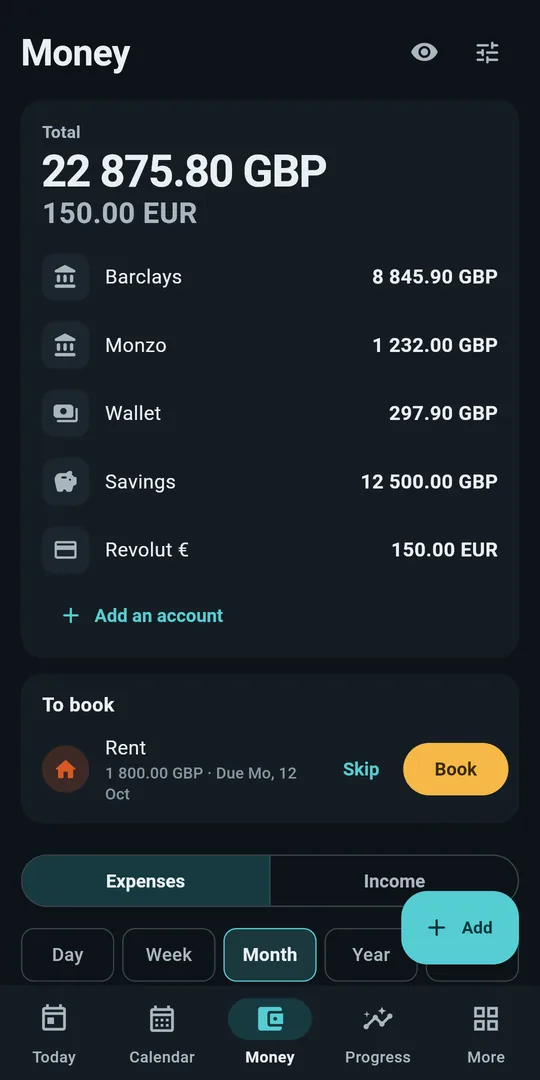
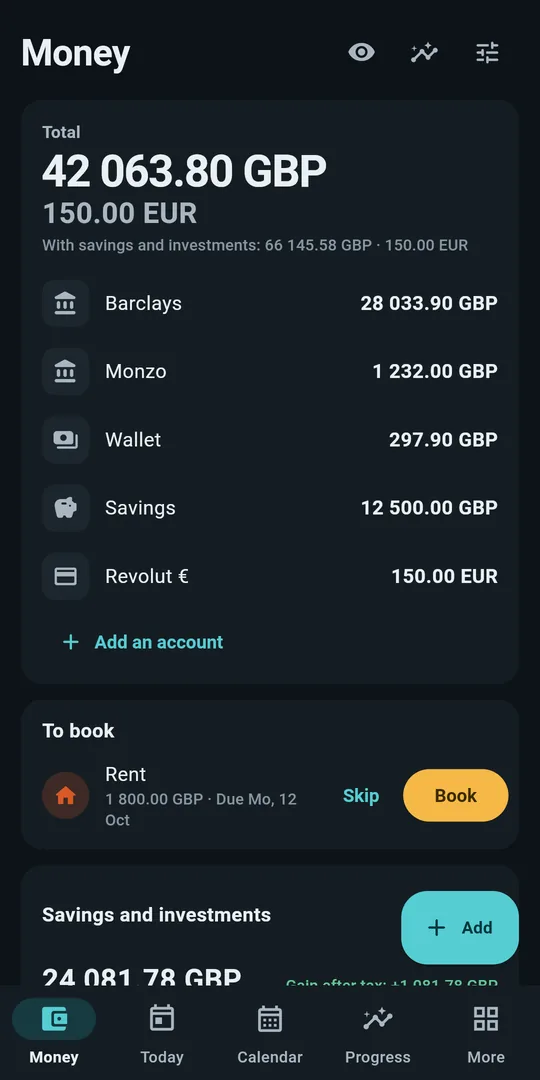
Savings, investments and vehicles; privacy policy of 15 October 2026
Claude-Session: https://claude.ai/code/session_013H4ccpA5geiEoR3crP6e7C

diff --git a/privacy-policy.html b/privacy-policy.html
@@ -16,15 +16,17 @@ h1 { font-size: 1.5rem; margin-top: 2.5rem; } h2 { font-size: 1.1rem; margin-top
 <body>
 <section lang="en">
 <h1>CONTROL — Privacy Policy</h1>
-<p class="date">Last updated: 2026-10-14</p>
+<p class="date">Last updated: 2026-10-15</p>
 <h2>In short</h2>
 <p>CONTROL works entirely on your phone. Everything you enter stays in the app’s private storage on your device. The developer does not collect, receive, store, sell or share any personal data, and the app contains no advertising, analytics, crash reporting or tracking code.</p>
 <h2>What you enter and where it is kept</h2>
 <p>The app stores what you type or tap: the addictions you track, urges, lapses and their analysis, daily check-ins (for example sleep, mood and energy), rules, tasks, reminders, your own notes and the names and phone numbers of the support people you add yourself (the app never reads your contacts), and, if you switch on the optional modules, your health values, goals, focus sessions, planner entries, alarms, work shifts, hours and pay rate, and the accounts, balances, expenses and income you type in (there is no connection to any bank). This information is stored in a local database in the app’s private folder, which other apps cannot read. The app has no internet permission, so it cannot send this information anywhere. Android cloud backup and device-to-device transfer are turned off for the app.</p>
+<h2>Savings, investments and vehicles</h2>
+<p>In Money you can also keep savings and investments: deposits, bonds, shares and the like, with the amounts, dates, interest rates and values you type in. With the Vehicles module you keep your vehicles: make, model, plate, odometer readings, service dates, fuel, costs and tyres. They are stored like everything else, in the app’s private storage on your phone, and go into your backup file. CONTROL never downloads prices or exchange rates: everything it shows, including the analysis over months and years, is calculated on the phone from what you enter.</p>
 <h2>Backup files</h2>
 <p>If you choose to export a backup, the app writes one JSON file to a location you pick in the system file picker. The file is not encrypted. Where it goes after that, and who can read it, is under your control. Importing reads only the file you choose.</p>
 <h2>Price and payment</h2>
-<p>CONTROL has a free version with no time limit: addictions with the urge protocol, the Blocker and the help numbers, habits, health, money and the backup of your data. CONTROL Pro, a yearly subscription bought through Google Play, adds the planner, work and pay, goals and focus. New subscribers can try Pro free for the period shown before buying; Google Play charges only when that period ends, unless you cancel earlier in Google Play, and the app reminds you two days before. There is no advertising. Google Play handles the payment under Google’s own privacy policy. The developer never sees your card details; Google Play reports only the order information it gives every seller (such as the order number, date, price and country) for accounting, taxes and refunds, and nothing you enter in CONTROL is part of it. To check the subscription, CONTROL asks the Play Store app on your phone, over a connection inside the phone, whether it is active; CONTROL itself sends nothing. For this the app holds the Google Play billing permission and, added by Google’s billing library, the permission to see whether a network connection exists; neither lets CONTROL send anything.</p>
+<p>CONTROL has a free version with no time limit: addictions with the urge protocol, the Blocker and the help numbers, habits, health, money and the backup of your data. CONTROL Pro, a yearly subscription bought through Google Play, adds the planner, work and pay, goals, focus and vehicles. New subscribers can try Pro free for the period shown before buying; Google Play charges only when that period ends, unless you cancel earlier in Google Play, and the app reminds you two days before. There is no advertising. Google Play handles the payment under Google’s own privacy policy. The developer never sees your card details; Google Play reports only the order information it gives every seller (such as the order number, date, price and country) for accounting, taxes and refunds, and nothing you enter in CONTROL is part of it. To check the subscription, CONTROL asks the Play Store app on your phone, over a connection inside the phone, whether it is active; CONTROL itself sends nothing. For this the app holds the Google Play billing permission and, added by Google’s billing library, the permission to see whether a network connection exists; neither lets CONTROL send anything.</p>
 <h2>Rating the app</h2>
 <p>After at least a week of use, CONTROL may ask you once whether you want to rate it. That window belongs to the Play Store app on your phone: what you choose there goes to Google under Google’s terms, and CONTROL never learns whether or how you rated it. “Rate CONTROL” in Settings opens the app’s page in the Play Store.</p>
 <h2>Permissions</h2>
@@ -51,15 +53,17 @@ h1 { font-size: 1.5rem; margin-top: 2.5rem; } h2 { font-size: 1.1rem; margin-top
 <hr>
 <section lang="pl">
 <h1>CONTROL — Polityka prywatności</h1>
-<p class="date">Ostatnia aktualizacja: 2026-10-14</p>
+<p class="date">Ostatnia aktualizacja: 2026-10-15</p>
 <h2>W skrócie</h2>
 <p>CONTROL działa w całości na Twoim telefonie. Wszystko, co wpisujesz, zostaje w prywatnej pamięci aplikacji na Twoim urządzeniu. Twórca nie zbiera, nie otrzymuje, nie przechowuje, nie sprzedaje i nie udostępnia żadnych danych osobowych, a aplikacja nie zawiera kodu reklam, analityki, raportowania błędów ani śledzenia.</p>
 <h2>Co wpisujesz i gdzie to jest przechowywane</h2>
 <p>Aplikacja zapisuje to, co wpisujesz lub zaznaczasz: śledzone nałogi, impulsy, potknięcia i ich analizę, codzienne check-iny (na przykład sen, nastrój i energię), zasady, zadania, przypomnienia, Twoje notatki, imiona i numery dodanych przez Ciebie osób wsparcia (aplikacja nigdy nie czyta Twoich kontaktów), a jeśli włączysz dodatkowe moduły, także wartości dotyczące zdrowia, cele, sesje skupienia, wpisy planera, budziki, zmiany w pracy, godziny i stawkę oraz konta, salda, wydatki i przychody, które wpiszesz (aplikacja nie łączy się z żadnym bankiem). Te informacje są przechowywane w lokalnej bazie danych w prywatnym katalogu aplikacji, do którego inne aplikacje nie mają dostępu. Aplikacja nie ma uprawnienia do internetu, więc nie może ich nigdzie wysłać. Kopia w chmurze Androida i przenoszenie danych między urządzeniami są dla aplikacji wyłączone.</p>
+<h2>Oszczędności, inwestycje i pojazdy</h2>
+<p>W Finansach możesz też prowadzić oszczędności i inwestycje: lokaty, obligacje, akcje i podobne, z kwotami, datami, oprocentowaniem i wycenami, które wpiszesz. W module Pojazdy prowadzisz swoje pojazdy: markę, model, numer rejestracyjny, stany licznika, terminy serwisowe, tankowania, koszty i opony. Są przechowywane jak wszystko inne, w prywatnej pamięci aplikacji na Twoim telefonie, i trafiają do Twojego pliku kopii zapasowej. CONTROL nigdy nie pobiera cen ani kursów walut: wszystko, co pokazuje, także analiza z miesięcy i lat, jest liczone na telefonie z tego, co wpiszesz.</p>
 <h2>Pliki kopii zapasowej</h2>
 <p>Jeśli zdecydujesz się wyeksportować kopię, aplikacja zapisze jeden plik JSON w miejscu, które wskażesz w systemowym oknie wyboru. Plik nie jest szyfrowany. To, gdzie trafi dalej i kto może go odczytać, zależy od Ciebie. Import odczytuje wyłącznie wskazany przez Ciebie plik.</p>
 <h2>Cena i płatność</h2>
-<p>CONTROL ma wersję bezpłatną bez limitu czasu: nałogi z protokołem impulsu, Blokerem i numerami pomocy, nawyki, zdrowie, pieniądze i kopię Twoich danych. CONTROL Pro, subskrypcja roczna kupowana przez Google Play, dodaje planer, pracę z wypłatą, cele i skupienie. Nowi subskrybenci mogą wypróbować Pro bezpłatnie przez okres pokazany przed zakupem; Google Play pobiera opłatę dopiero po jego końcu, chyba że wcześniej anulujesz w Google Play, a aplikacja przypomina o tym dwa dni wcześniej. Aplikacja nie zawiera reklam. Płatność obsługuje Google Play według polityki prywatności Google. Twórca nigdy nie widzi danych Twojej karty; Google Play przekazuje mu tylko informacje o zamówieniu, które dostaje każdy sprzedawca (na przykład numer zamówienia, datę, cenę i kraj), do księgowości, podatków i zwrotów, i nic, co wpisujesz w CONTROL, nie jest ich częścią. Aby sprawdzić subskrypcję, CONTROL pyta aplikację Sklep Play na Twoim telefonie, przez połączenie wewnątrz telefonu, czy jest aktywna; sam CONTROL niczego nie wysyła. Do tego aplikacja ma uprawnienie do płatności Google Play oraz, dodane przez bibliotekę płatności Google, uprawnienie do sprawdzenia, czy jest połączenie z siecią; żadne z nich nie pozwala CONTROL niczego wysłać.</p>
+<p>CONTROL ma wersję bezpłatną bez limitu czasu: nałogi z protokołem impulsu, Blokerem i numerami pomocy, nawyki, zdrowie, pieniądze i kopię Twoich danych. CONTROL Pro, subskrypcja roczna kupowana przez Google Play, dodaje planer, pracę z wypłatą, cele, skupienie i pojazdy. Nowi subskrybenci mogą wypróbować Pro bezpłatnie przez okres pokazany przed zakupem; Google Play pobiera opłatę dopiero po jego końcu, chyba że wcześniej anulujesz w Google Play, a aplikacja przypomina o tym dwa dni wcześniej. Aplikacja nie zawiera reklam. Płatność obsługuje Google Play według polityki prywatności Google. Twórca nigdy nie widzi danych Twojej karty; Google Play przekazuje mu tylko informacje o zamówieniu, które dostaje każdy sprzedawca (na przykład numer zamówienia, datę, cenę i kraj), do księgowości, podatków i zwrotów, i nic, co wpisujesz w CONTROL, nie jest ich częścią. Aby sprawdzić subskrypcję, CONTROL pyta aplikację Sklep Play na Twoim telefonie, przez połączenie wewnątrz telefonu, czy jest aktywna; sam CONTROL niczego nie wysyła. Do tego aplikacja ma uprawnienie do płatności Google Play oraz, dodane przez bibliotekę płatności Google, uprawnienie do sprawdzenia, czy jest połączenie z siecią; żadne z nich nie pozwala CONTROL niczego wysłać.</p>
 <h2>Ocena aplikacji</h2>
 <p>Po co najmniej tygodniu używania CONTROL może raz zapytać, czy chcesz go ocenić. To okno należy do aplikacji Sklep Play na Twoim telefonie: to, co tam wybierzesz, trafia do Google na zasadach Google, a CONTROL nigdy nie wie, czy ani jak go oceniłeś. „Oceń CONTROL” w Ustawieniach otwiera stronę aplikacji w Sklepie Play.</p>
 <h2>Uprawnienia</h2>

diff --git a/en/index.html b/en/index.html
@@ -24,7 +24,7 @@
 <div class="hero">
 <div>
 <h1 class="motto"><span class="fight">Money and life</span><span class="design">under control.</span></h1>
-<p class="lead">CONTROL starts with your money: accounts, expenses, income and several currencies in one place. Around it you choose the rest: habits, health from your watch and, if you need it, a way out of an addiction. No account and no internet, so nothing you enter leaves your phone.</p>
+<p class="lead">CONTROL starts with your money: accounts, expenses, income, savings and investments in one place. Around it you choose the rest: habits, health from your watch and, if you need it, a way out of an addiction. No account and no internet, so nothing you enter leaves your phone.</p>
 <div class="actions"><span class="button" aria-disabled="true">Coming soon to Google Play</span><a href="../privacy-policy.html">Privacy policy</a></div>
 <p class="req">Android 8.0 or newer, 17 languages.</p>
 </div>
@@ -36,7 +36,7 @@
 <div class="features">
 <div class="feature"><div class="phone"><img src="../img/en-01-dashboard.webp" alt="" width="540" height="1080" loading="lazy"></div><h3>Your day</h3><p>The Today screen: the day plan, payments to book, habits and a 30-second check-in. Habits tick themselves off from your watch data.</p></div><div class="feature"><div class="phone"><img src="../img/en-02-urge.webp" alt="" width="540" height="1080" loading="lazy"></div><h3>When an urge comes</h3><p>A protocol for the next few minutes, the BLOCKER for apps and help numbers at hand. A lapse is data to learn from, not a reason for shame.</p></div><div class="feature"><div class="phone"><img src="../img/en-38-watches.webp" alt="" width="540" height="1080" loading="lazy"></div><h3>Health from your watch</h3><p>Sleep, steps and heart rate from Garmin, Samsung, Fitbit and more. You choose which app the data comes from.</p></div>
 </div>
-<p class="modules dim">CONTROL Pro adds a planner with alarms, shift work with pay, goals and focus.</p>
+<p class="modules dim">CONTROL Pro adds a planner with alarms, shift work with pay, goals, focus and vehicles (inspection, insurance, service, fuel use).</p>
 </section>
 
 <section aria-labelledby="perm">
@@ -50,8 +50,8 @@
 <section aria-labelledby="price">
 <h2 id="price">Price</h2>
 <div class="prices">
-<div class="price"><h3>The free version, for good</h3><p>Money (accounts, expenses, income, currencies), addictions with the urge protocol, the BLOCKER and analyses, habits, health from your watch and the backup. No time limit and no ads.</p></div>
-<div class="price pro"><h3>CONTROL Pro, one yearly price</h3><p>A planner with alarms, shift work with pay, goals and focus. New subscribers get 30 days free, and the app reminds them two days before the first payment. Cancel in Google Play.</p><p>The price follows purchasing power in each country, for example $24.99 a year in the US.</p></div>
+<div class="price"><h3>The free version, for good</h3><p>Money (accounts, expenses, income, currencies, savings and investments, an analysis over months and years), addictions with the urge protocol, the BLOCKER and analyses, habits, health from your watch and the backup. No time limit and no ads.</p></div>
+<div class="price pro"><h3>CONTROL Pro, one yearly price</h3><p>A planner with alarms, shift work with pay, goals, focus and vehicles. New subscribers get 30 days free, and the app reminds them two days before the first payment. Cancel in Google Play.</p><p>The price follows purchasing power in each country, for example $24.99 a year in the US.</p></div>
 </div>
 </section>
 </main>

diff --git a/index.html b/index.html
@@ -24,7 +24,7 @@
 <div class="hero">
 <div>
 <h1 class="motto"><span class="fight">Pieniądze i życie</span><span class="design">pod kontrolą.</span></h1>
-<p class="lead">CONTROL zaczyna od Twoich pieniędzy: konta, wydatki, przychody i kilka walut w jednym miejscu. Wokół nich wybierasz resztę: nawyki, zdrowie z zegarka, a jeśli trzeba, wyjście z nałogu. Bez konta i bez internetu, więc nic, co wpiszesz, nie opuszcza telefonu.</p>
+<p class="lead">CONTROL zaczyna od Twoich pieniędzy: konta, wydatki, przychody, oszczędności i inwestycje w jednym miejscu. Wokół nich wybierasz resztę: nawyki, zdrowie z zegarka, a jeśli trzeba, wyjście z nałogu. Bez konta i bez internetu, więc nic, co wpiszesz, nie opuszcza telefonu.</p>
 <div class="actions"><span class="button" aria-disabled="true">Wkrótce w Google Play</span><a href="privacy-policy.html">Polityka prywatności</a></div>
 <p class="req">Android 8.0 lub nowszy, 17 języków.</p>
 </div>
@@ -36,7 +36,7 @@
 <div class="features">
 <div class="feature"><div class="phone"><img src="img/pl-01-dashboard.webp" alt="" width="540" height="1080" loading="lazy"></div><h3>Twój dzień</h3><p>Ekran Dziś: plan dnia, płatności do zaksięgowania, nawyki i check-in w 30 sekund. Nawyki odhaczają się same z danych zegarka.</p></div><div class="feature"><div class="phone"><img src="img/pl-02-urge.webp" alt="" width="540" height="1080" loading="lazy"></div><h3>Gdy przychodzi chęć</h3><p>Protokół na kilkanaście minut, BLOKER aplikacji i numery pomocy pod ręką. Potknięcie to dane do analizy, nie powód do wstydu.</p></div><div class="feature"><div class="phone"><img src="img/pl-38-watches.webp" alt="" width="540" height="1080" loading="lazy"></div><h3>Zdrowie z zegarka</h3><p>Sen, kroki i tętno z Garmina, Samsunga, Fitbita i innych. Ty wybierasz, z której aplikacji brać dane.</p></div>
 </div>
-<p class="modules dim">W CONTROL Pro także planer z budzikami, praca zmianowa z wypłatą, cele i skupienie.</p>
+<p class="modules dim">W CONTROL Pro także planer z budzikami, praca zmianowa z wypłatą, cele, skupienie i pojazdy (badania, ubezpieczenie, serwis, spalanie).</p>
 </section>
 
 <section aria-labelledby="perm">
@@ -50,8 +50,8 @@
 <section aria-labelledby="price">
 <h2 id="price">Cena</h2>
 <div class="prices">
-<div class="price"><h3>Wersja bezpłatna, na zawsze</h3><p>Pieniądze (konta, wydatki, przychody, waluty), nałogi z protokołem impulsu, BLOKEREM i analizami, nawyki, zdrowie z zegarka i kopia zapasowa. Bez limitu czasu i bez reklam.</p></div>
-<div class="price pro"><h3>CONTROL Pro, 50 zł rocznie</h3><p>Planer z budzikami, praca zmianowa z wypłatą, cele i skupienie. Nowi subskrybenci mają 30 dni za darmo, a aplikacja przypomina o płatności dwa dni wcześniej. Anulujesz w Google Play.</p><p>W innych krajach cena jest dopasowana do siły nabywczej.</p></div>
+<div class="price"><h3>Wersja bezpłatna, na zawsze</h3><p>Pieniądze (konta, wydatki, przychody, waluty, oszczędności i inwestycje, analiza z miesięcy i lat), nałogi z protokołem impulsu, BLOKEREM i analizami, nawyki, zdrowie z zegarka i kopia zapasowa. Bez limitu czasu i bez reklam.</p></div>
+<div class="price pro"><h3>CONTROL Pro, 50 zł rocznie</h3><p>Planer z budzikami, praca zmianowa z wypłatą, cele, skupienie i pojazdy. Nowi subskrybenci mają 30 dni za darmo, a aplikacja przypomina o płatności dwa dni wcześniej. Anulujesz w Google Play.</p><p>W innych krajach cena jest dopasowana do siły nabywczej.</p></div>
 </div>
 </section>
 </main>
